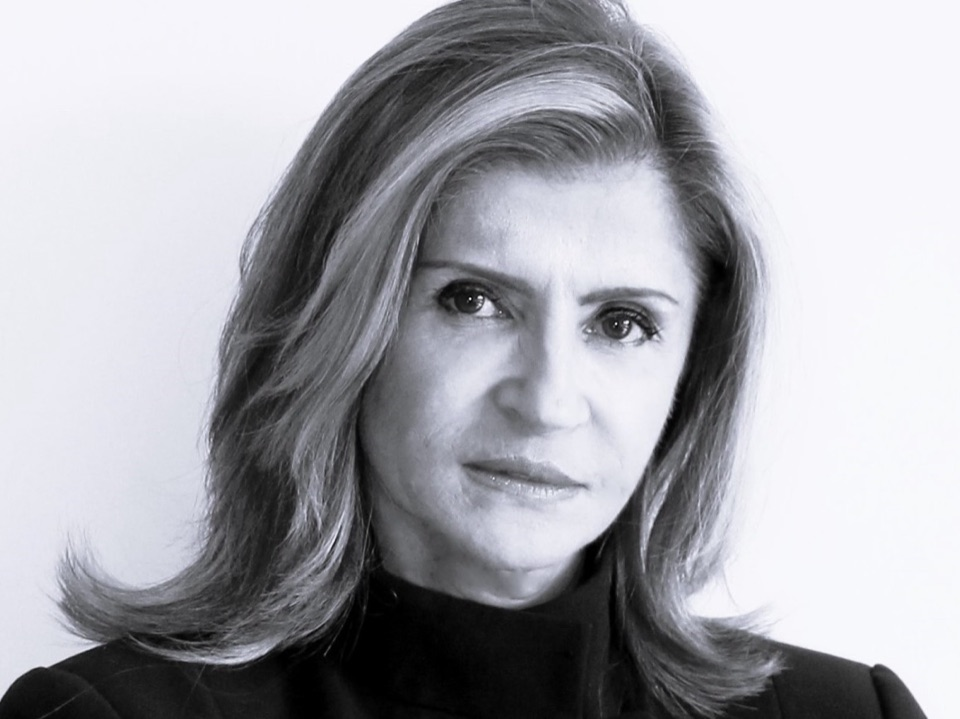
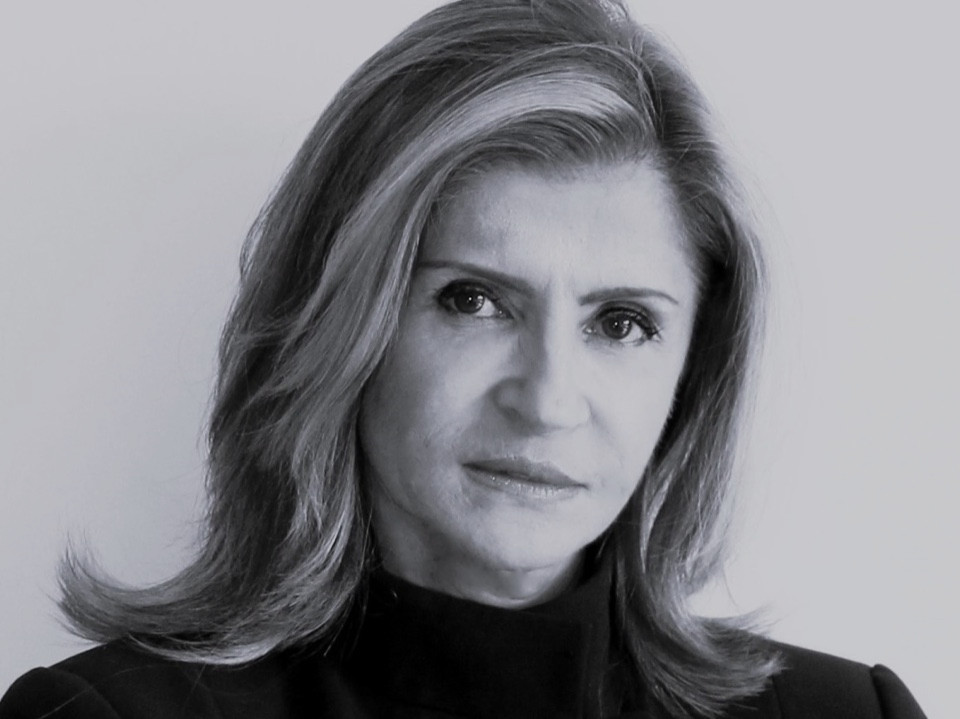
Panelistas: Ana María Echeverri en Surgimiento de las guerrillas, Martha Soto en Narcotráfico, Guillermo González Uribe con bio corregida y foto de Marisol Gómez con curva de tonos

diff --git a/src/data/speakers.ts b/src/data/speakers.ts
@@ -20,6 +20,7 @@ import photoGuillermoGonzalez from '../assets/speakers/guillermo-gonzalez.jpg';
 import photoYolandaRuiz from '../assets/speakers/yolanda-ruiz.jpg';
 import photoMariaElviraSamper from '../assets/speakers/maria-elvira-samper.jpg';
 import photoLeonValencia from '../assets/speakers/leon-valencia.jpg';
+import photoAnaMariaEcheverri from '../assets/speakers/ana-maria-echeverri.jpg';
 
 export type SpeakerLinkKey = 'x' | 'instagram' | 'linkedin' | 'facebook' | 'web' | 'wikipedia';
 
@@ -177,14 +178,30 @@ export const speakers: Speaker[] = [
   },
   {
     slug: 'guillermo-gonzalez',
-    name: 'Guillermo González',
+    /* Nombre con los dos apellidos y bio corregida por los organizadores el 2026-09-15 */
+    name: 'Guillermo González Uribe',
     credential: 'Fundador de Número · columnista de El Espectador',
-    bio: 'Periodista, editor y escritor. Columnista de El Espectador y director de El Ala de Arriba. Fundó y dirigió durante 18 años la revista Número (1993-2011). Antes dirigió Gaceta de Colcultura y el Magazín Dominical de El Espectador, donde empezó como reportero en 1977. Premio Planeta de Periodismo 2002 por “Los niños de la guerra” y Premio Media de LASA. Autor de “A pesar de la noche” y “Foto Sady, recuerdos de la realidad”.',
+    bio: 'Cubrió derechos humanos y cultura en El Espectador en los años ochenta y fue editor de su Magazín Dominical. Dirigió las revistas Gaceta y Número. Autor de “A pesar de la noche”, “Los niños de la guerra”, “Los niños de la guerra quince años después” y, con Margarita Carrillo, de “Foto Sady, recuerdos de la realidad”. Premio Planeta de Periodismo y Premio Media de LASA (Latin American Studies Association). Coautor, con Margarita Carrillo, del documental “Sady González, una luz en la memoria”, premio estímulo del Fondo de Desarrollo Cinematográfico. Escribe columna en El Espectador y colabora con diversos medios.',
     photo: photoGuillermoGonzalez,
     links: {
       x: 'https://x.com/guillogonzale12',
       linkedin: 'https://www.linkedin.com/in/guillermo-gonz%C3%A1lez-uribe-b2775034/',
       web: 'https://elaladearriba.wordpress.com/',
+    },
+    confirmed: true,
+  },
+  {
+    /* Añadida el 2026-09-15 por los organizadores para "Surgimiento de las
+       guerrillas". Investigación en docs/investigacion-ana-maria-echeverri.md.
+       Última del carrusel: sin columna, radio ni televisión hoy. */
+    slug: 'ana-maria-echeverri',
+    name: 'Ana María Echeverri',
+    credential: 'Periodista y documentalista · autora de “Yo soy yo”',
+    bio: 'Periodista, cronista y documentalista. Autora de “Yo soy yo” (2024), la historia de Martín Castillo, un hombre trans, contada tras siete años de conversaciones en Villa de Leyva. Empezó como reportera gráfica de la revista Guion y fue cronista de El Tiempo, Cromos y el Magazín Dominical de El Espectador. Dirigió documentales y programas de opinión para Audiovisuales, Telepacífico y Caracol Televisión. Premios Ondas, India Catalina y Simón Bolívar.',
+    photo: photoAnaMariaEcheverri,
+    photoTreatment: 'plain',
+    links: {
+      web: 'https://www.planetadelibros.com/autor/ana-maria-echeverri/000061446',
     },
     confirmed: true,
   },

diff --git a/src/data/agenda.ts b/src/data/agenda.ts
@@ -91,7 +91,8 @@ export const agenda: AgendaSlot[] = [
     type: 'conversatorio',
     title: 'Surgimiento de las guerrillas',
     venueId: 'duruelo',
-    speakerSlugs: ['leon-valencia'],
+    /* Ana María Echeverri entró el 2026-09-15 (organizadores) */
+    speakerSlugs: ['leon-valencia', 'ana-maria-echeverri'],
   },
   {
     day: '2026-11-07',
@@ -107,7 +108,8 @@ export const agenda: AgendaSlot[] = [
     type: 'conversatorio',
     title: 'Narcotráfico y paramilitarismo',
     venueId: 'duruelo',
-    speakerSlugs: ['luz-maria-sierra'],
+    /* Martha Soto entró a esta franja el 2026-09-15 (organizadores) */
+    speakerSlugs: ['luz-maria-sierra', 'martha-soto'],
   },
   {
     day: '2026-11-07',

diff --git a/docs/investigacion-ana-maria-echeverri.md b/docs/investigacion-ana-maria-echeverri.md
@@ -1,0 +1,92 @@
+# Ana María Echeverri · informe de investigación (15 sep 2026)
+
+Encargo: nueva panelista de "Surgimiento de las guerrillas" (sábado 7 de noviembre, 9:00 a 10:30 a.m.), junto a León Valencia. Los organizadores la escribieron "Ana Maria Echeverri".
+
+## 1. Nombre y grafía
+- Nombre completo: **Ana María Echeverri Salazar** (página de autora de Editorial Planeta, 2024; en la biografía de Grijalbo firma "Ana María Echeverri S.").
+- Grafía recomendada para el sitio: **Ana María Echeverri**, con tilde en "María" y con i final. Es la forma de su editorial actual (Planeta), de Villa de Letras 2026, de El Espectador (Guillermo González Uribe y Arturo Guerrero), El Diario y Vanguardia.
+- Variante "Echeverry": la usan la ficha de Google Books y algunas librerías para su libro de 2016 en Grijalbo, un pie de foto de El Tiempo (31 mar 2025) y el blog de María Victoria Puerta. Es la misma persona; no usar en el sitio.
+- **Identidad**: hay varias Ana María Echeverri en Colombia (una directiva tecnológica de IBM, una directora de Amor por Medellín, una religiosa de 90 años en Manizales, una funcionaria pública). La que encaja es la periodista y documentalista, por cuatro razones verificadas: (a) trayectoria de más de cuatro décadas en prensa y televisión, coherente con un encuentro de "periodistas veteranos"; (b) vive en Villa de Leyva (Grijalbo 2016: doce años residiendo allí; El Tiempo 2025: "mi casa de Villa de Leyva"); (c) fue invitada de Villa de Letras 2026, encuentro cultural de Villa de Leyva donde conversó con Yolanda Ruiz y en cuya lista de invitados figura también Darío Restrepo, codirector de Testigos de la Memoria; (d) Guillermo González Uribe, panelista del encuentro, reseñó su libro en El Espectador (3 dic 2024).
+- No tiene artículo de Wikipedia (búsquedas directas sin resultado). Su hoja en Planeta hace las veces de biografía oficial.
+
+## 2. Rol actual (2024-2026) · confirmado
+- **Periodista, cronista y documentalista; escritora.** Así la presentan Planeta (2024), Villa de Letras (2026), El Espectador (2024), El Tiempo (2025) y Cambio (2024-2025). No tiene cargo en un medio ni columna fija hoy. Guillermo González Uribe la describe como "periodista curtida, de bajo perfil", con "más de cuatro décadas de profesión".
+- Libro más reciente: *Yo soy yo. La asombrosa transformación de Yasmín en Martín* (Editorial Planeta Colombia, 23 sep 2024; ISBN 978-628-7734-40-1; 192 páginas). Historia de Martín Castillo, hombre trans nacido en Bogotá y criado en Muzo (Boyacá), construida en siete años de conversaciones. Según Vanguardia (14 mar 2025), agotó la primera edición en tres meses y se reimprimieron 600 ejemplares.
+- Confirmaciones recientes:
+  - 23 feb 2026, El Espectador: Villa de Letras 2026 cierra el domingo 1 de marzo con "una conversación entre Yolanda Ruiz y la escritora Ana María Echeverri". La agenda del festival la ubica de 10:30 a 12:00 en el Claustro de San Francisco, Villa de Leyva.
+  - villadeletras.com/invitados (edición 2026): "Periodista, cronista y documentalista. Ha trabajado en revistas y periódicos como El Tiempo, Cromos y El Espectador. Autora del libro YO SOY YO. Su trabajo ha sido reconocido con importantes premios nacionales e internacionales como el Premio Ondas, el Simón Bolívar y la India Catalina."
+  - 31 mar 2025, El Tiempo (Laura Valeria López Guzmán): entrevista por el libro; cita textual "Todo esto se dio en mi casa de Villa de Leyva".
+  - 21 abr 2025, blog de María Victoria Puerta (El Tiempo): la encuentra en Villa de Letras 2025 y la llama "la histórica periodista".
+- Residencia: Villa de Leyva (Grijalbo 2016 decía "reside hace doce años en Villa de Leyva"; El Tiempo 2025 lo confirma). No publicar la dirección ni detalles.
+
+## 3. Trayectoria clave
+Fuente principal: biografía de autora en Planeta (2024), reproducida por El Diario (20 oct 2024) y librerías. Lo que no aparece en fuente independiente se marca.
+- **Origen y formación**: "bogotana de nacimiento y manizaleña de corazón". Estudió Comunicación Social en Medellín. Grijalbo (2016) añade que creció en zona cafetera.
+- **Inicios**: reportera gráfica de la revista Guion; luego cronista de El Tiempo, de la revista Cromos y del Magazín Dominical de El Espectador. Un artículo de la revista Diners sobre las primeras fotógrafas de Colombia la incluye entre ellas y dice que se formó en fotografía en Londres (solo visto en fragmento de buscador; la URL devuelve 404: **no confirmado**).
+- **Televisión**: documentales y programas de opinión para Audiovisuales, Telepacífico, Caracol Televisión y el Premio Nacional de Paz (Planeta). No encontré títulos de esos documentales en fuentes públicas.
+- **1987**: Premio Nacional de Periodismo Simón Bolívar, categoría Trabajo cultural en televisión, por "Cien años de arte colombiano / Cenicienta va a la ópera / Cali, pura salsa I y II", con Diego Carrizosa y Susana Silva (Audiovisuales). **Confirmado en premiosimonbolivar.com/1987.**
+- **Premios según su biografía editorial**: Premio Ondas (España), Mejor Documental en la Televisión Belga, seis premios Simón Bolívar, Premio India Catalina, Medalla al Mérito Murillo Toro, Chigüiro de Oro y Premio de Periodismo Cultural Eddy Torres. De los seis Simón Bolívar solo pude confirmar el de 1987 (revisé las páginas oficiales de 1980 a 2006; los años anteriores y posteriores tienen categorías de televisión poco detalladas). Los demás premios no aparecen en listas públicas: se citan **sobre la palabra de la editorial**.
+- **2016**: *Pioneros de la medicina alternativa* (Grijalbo / Penguin Random House Colombia; ISBN 978-958-9007-20-4 impreso, 978-958-9007-21-1 digital). Conversaciones con siete especialistas en terapias alternativas.
+- **2024**: *Yo soy yo* (Planeta). Lanzamiento en Ficciones-Bar de Libros, Bogotá, con Brigitte Baptiste como presentadora (El Diario).
+- **2025-2026**: Villa de Letras (Villa de Leyva), ediciones 2025 (informal) y 2026 (invitada, conversación con Yolanda Ruiz).
+
+### Datos del encargo que NO pude confirmar
+- **Vínculo con el tema "Surgimiento de las guerrillas"**: ninguna fuente pública la asocia al cubrimiento del conflicto armado, las guerrillas, la memoria histórica o a León Valencia. Su obra publicada trata de arte y cultura (1987), medicina alternativa (2016) e identidad de género (2024); los documentales para el Premio Nacional de Paz son lo más cercano al tema, sin títulos localizables. **Los organizadores deben confirmar que es esta persona y en qué calidad participa** (por ejemplo, como entrevistadora o moderadora de León Valencia, más que como testigo del surgimiento de las guerrillas).
+- No es historiadora ni académica según ninguna fuente.
+- No encontré año de nacimiento ni edad: no publicar.
+
+## 4. Bio propuesta (70 palabras)
+Periodista, cronista y documentalista. Autora de “Yo soy yo” (2024), la historia de Martín Castillo, hombre trans, contada tras siete años de conversaciones en Villa de Leyva, donde vive. Empezó como reportera gráfica de la revista Guion y fue cronista de El Tiempo, Cromos y el Magazín Dominical de El Espectador. Dirigió documentales y programas de opinión para Audiovisuales, Telepacífico y Caracol Televisión. Premios Ondas, India Catalina y Simón Bolívar.
+
+Notas: los tres premios de la última frase son los que ella misma destaca en Villa de Letras; el Simón Bolívar está confirmado (1987). Si los organizadores prefieren no citar premios sin lista pública, sustituir la última frase por "Premio Simón Bolívar 1987 en televisión cultural." (66 palabras).
+
+## 5. Credencial corta
+"Documentalista · autora de “Yo soy yo”" (6 palabras).
+Alternativa: "Periodista y documentalista · Premio Ondas" (5 palabras; el Ondas solo consta en su biografía editorial).
+
+## 6. Redes y enlaces
+- Página de autora en Planeta: https://www.planetadelibros.com/autor/ana-maria-echeverri/000061446 · verificada (bio oficial, foto de autora, libros). Es el enlace `web` recomendado para la tarjeta.
+- Ficha del libro: https://www.planetadelibros.com/libro-yo-soy-yo/409054 · verificada.
+- X, Instagram, Facebook, LinkedIn, sitio propio: **no encontrados** con verificación. Los perfiles de LinkedIn "Ana María Echeverri" que aparecen en buscadores son de otras personas (Medea Interactiva, Amor por Medellín, IBM); la cuenta de X @anachevere es de una periodista española (Ana Echeverría). No enlazar ninguno.
+- Wikipedia: no tiene artículo.
+- Villa de Letras (tarjeta de invitada 2026): https://villadeletras.com/invitados · verificada como página del festival, no de ella; sirve como fuente, no como enlace de la tarjeta.
+
+## 7. Fotos
+Wikimedia Commons: sin resultados. No hay foto con licencia libre; todas son de prensa o editoriales y hay que acreditar o pedir permiso (lo más simple: pedirle a ella el original de Margarita Casas).
+
+**curl fue denegado por permisos en esta sesión**, así que no hay copias locales en `scratchpad/research/photos/`. Las dimensiones se midieron cargando cada URL en el navegador (`naturalWidth × naturalHeight`); las URL directas van abajo.
+
+1. **Recomendada para la tarjeta 4:3**: retrato en blanco y negro, cabeza y hombros centrados, sonriente, gafas, suéter claro de cuello alto, fondo de muro de ladrillo. **1080 × 1080 px**. Origen: tarjeta de invitada en Villa de Letras 2026, https://img1.wsimg.com/isteam/ip/fae1fbd5-ffc3-43c7-a223-16f422137f46/ana-maria-echeverri.jpg. Es la misma sesión que la foto oficial de Planeta, cuyo crédito es **© Margarita Casas** (Planeta, ago 2024); en Villa de Letras aparece sin crédito. Recorte 4:3 de 1080 × 810 dejando la cabeza centrada: quita un poco de muro arriba y de suéter abajo; queda con el mismo encuadre que Daniel Samper Pizano y Darío Restrepo. Derechos: Planeta / Margarita Casas; pedir autorización o el original en alta.
+2. Misma foto en versión apaisada, más muro a los lados: **1200 × 535 px**, El Tiempo, 31 mar 2025, crédito "Cortesía Editorial Planeta": https://imagenes2.eltiempo.com/files/image_1200_535/files/fp/uploads/2025/01/15/6787f58e4dda1.r_d.821-444-7500.jpeg. La cabeza toca el borde superior; no sirve para 4:3 pero confirma el origen editorial de la foto 1.
+3. Planeta, foto de autora oficial (© Margarita Casas): solo se sirve en miniatura de **300 × 300 px**: https://proassetspdlcom.cdnstatics2.com/usuaris/autores/thumbs/a0c153e5-b37d-4935-9d3a-ddcb6f569955/d_300_300_crop/000085335_1_FotoAnaMariaporMargaritaCasas_202408202151.webp. Demasiado pequeña; útil solo para acreditar.
+4. Foto en color con el libro en la mano, en un patio de Villa de Leyva, cuerpo entero hasta la cadera, rostro pequeño en el encuadre: **1548 × 2560 px** (versión "scaled"; el original IMG_1650.jpg mide 1725 × 2853). Crédito: Victoria Puerta, blog Los mundos de Vandalia (El Tiempo), 21 abr 2025: https://blogs.eltiempo.com/los-mundos-de-vandalia/wp-content/uploads/sites/634/2025/04/IMG_1650-scaled.jpg. Un recorte 4:3 de cabeza y hombros quedaría por debajo de 900 px de ancho y con fondo cargado. Segunda opción.
+5. Dos fotos del lanzamiento del libro (sentada junto a un pendón de Planeta; con Brigitte Baptiste), **600 × 700 px** cada una, El Tiempo, crédito "Cortesía": https://imagenes2.eltiempo.com/files/image_600_700/files/fp/uploads/2025/04/01/67ec09ec8b2bd.r_d.606-902-5000.jpeg y https://imagenes2.eltiempo.com/files/image_600_700/files/fp/uploads/2025/04/01/67ec0a223acee.r_d.600-895-5000.jpeg. Rostro pequeño y de perfil; no sirven.
+
+## 8. Fuentes
+- Planeta, página de autora: https://www.planetadelibros.com/autor/ana-maria-echeverri/000061446
+- Planeta, ficha de *Yo soy yo* (23 sep 2024): https://www.planetadelibros.com/libro-yo-soy-yo/409054
+- Planeta Colombia, ficha: https://www.planetadelibros.com.co/libro-yo-soy-yo/404913
+- El Espectador, Guillermo González Uribe, 3 dic 2024: https://www.elespectador.com/opinion/columnistas/guillermo-gonzalez-uribe/de-ana-maria-echeverri-un-libro-apasionante-yo-soy-yo-ni-hombre-ni-mujer/
+- El Espectador, Arturo Guerrero: https://www.elespectador.com/opinion/columnistas/arturo-guerrero/no-tener-uno-sino-dos-sexos-entre-violencias/
+- El Tiempo, 31 mar 2025: https://www.eltiempo.com/cultura/musica-y-libros/disfrute-ver-como-suena-con-un-hogar-asi-fue-la-transicion-de-yasmin-a-martin-3417775
+- Vanguardia, 14 mar 2025: https://www.vanguardia.com/entretenimiento/cultura/2025/03/14/yo-soy-yo-la-inspiradora-historia-de-martin-castillo-y-su-camino-hacia-la-libertad/
+- El Diario (Pereira), 20 oct 2024: https://www.eldiario.com.co/seccion-d/las-artes/yo-soy-yo/
+- Cambio Colombia (403 al abrir; fragmento coherente): https://cambiocolombia.com/cultura/yo-soy-yo-desgarrador-drama-trans-pluma-ana-maria-echeverri
+- Premio Simón Bolívar, palmarés 1987: https://premiosimonbolivar.com/1987 (revisados también 1980-1986 y 1988-2006: sin otras entradas suyas)
+- Wikipedia, Anexo de ganadores del Simón Bolívar (sin mención): https://es.wikipedia.org/wiki/Anexo:Ganadores_del_Premio_Nacional_de_Periodismo_Sim%C3%B3n_Bol%C3%ADvar
+- Google Books, *Pioneros de la medicina alternativa* (Grijalbo 2016, "Ana Maria Echeverry", bio con Villa de Leyva): https://books.google.com.co/books?id=cqrgDAAAQBAJ
+- Buscalibre, *Pioneros de la medicina alternativa* (como "Echeverri"): https://www.buscalibre.com.co/libro-pioneros-de-la-medicina-alternativa/9789589007204/p/47504386
+- Penguin Libros, ebook: https://www.penguinlibros.com/co/nutricion-belleza-y-fitness/83964-ebook-pioneros-de-la-medicina-alternativa-9789589007211
+- Villa de Letras, invitados 2026: https://villadeletras.com/invitados
+- Villa de Letras, agenda 2026: https://villadeletras.com/agenda
+- El Espectador, 23 feb 2026, Villa de Letras 2026: https://www.elespectador.com/el-magazin-cultural/villa-de-letras-2026-reunira-a-mario-mendoza-pilar-quintana-y-otros-escritores-colombianos-en-villa-de-leyva/
+- Blog Los mundos de Vandalia (El Tiempo), 21 abr 2025: https://blogs.eltiempo.com/los-mundos-de-vandalia/2025/04/21/villla-de-leyva-al-calor-de-las-letras/
+- Revista Diners, primeras fotógrafas de Colombia (404; solo fragmento): https://revistadiners.com.co/cultura/archivo/42340_quienes-fueron-las-primeras-mujeres-colombia-se-dedicaron-la-fotografia/
+- Libros Medellín, ficha: https://librosmedellin.com/yo-soy-yo-ana-maria-echeverri/
+
+## 9. Posición sugerida en el carrusel
+Criterio del carrusel: reconocimiento entre el público general (radio, televisión y columnas de gran audiencia hoy). Ana María Echeverri no tiene columna, programa ni presencia en radio o televisión actual; su propia colega la describe como "de bajo perfil", y su notoriedad reciente viene de un libro de nicho y de un festival local. Sus premios de televisión son de los años ochenta y noventa.
+
+Propuesta: **al final del carrusel, después de Guillermo González** (orden: … Marisol Gómez, Martha Soto, Guillermo González, Ana María Echeverri). Guillermo González conserva una columna en El Espectador y una revista con nombre propio; ella no tiene hoy ninguna tribuna de audiencia comparable. Si los organizadores quieren reconocerle el Ondas y los Simón Bolívar, la alternativa es entre Martha Soto y Guillermo González, pero el criterio de audiencia actual la deja última.
+
+En la línea de nombres por franja (docs/panelistas.md, "Sábado 7, mañana"): León Valencia · Marisol Gómez · Ana María Echeverri.

diff --git a/docs/panelistas.md b/docs/panelistas.md
@@ -20,13 +20,14 @@ Un solo mensaje sirve para todos:
 | Daniel Samper Pizano (fundador de Cambio 16 Colombia, no director; corrección de los organizadores 2026-09-07) | Periodista y escritor · Los Danieles | X @DanielSamperPi · Los Danieles · Wikipedia | Foto de autor de Cambio (b/n), derechos reservados. Alternativa con licencia libre: Wikimedia Commons, NotimexTV 2018, CC BY 3.0, pero de baja calidad | La cuenta de X fue señalada como parodia en 2020; en 2026 Los Danieles la etiqueta como suya. Confirmar con él. |
 | Darío Restrepo | Periodista · codirector del encuentro | Wikipedia | Foto nueva del 2026-09-14 (original horizontal de 3840 x 2160 px, en color, en un patio con geranios); recorte propio a 4:3 y 960 px, con el encuadre de la de Daniel Samper Pizano (cabeza y hombros). Reemplaza la de prensa de El Tiempo y la vertical que envió él el 2026-09-07. Anotar el crédito y la autorización de uso | **Identidad**: la bio corresponde a Darío Restrepo Vélez (exdirector de Citytv, n. 1949). Ninguna fuente pública lo vincula con el encuentro. Confirmar con Fernando Cordovez antes de publicar. No tiene redes públicas. |
 | León Valencia | Director · Fundación Paz y Reconciliación | X @LeonVaLenciaA · autor en pares.com.co · Wikipedia | Presidencia de Colombia, 13 de mayo de 2025, dominio público (Flickr de Presidencia vía Wikimedia Commons, File:León_Valencia.jpg); recorte propio a 4:3 del original horizontal | Añadido el 2026-09-09 por los organizadores para "Surgimiento de las guerrillas". Año de nacimiento sin consenso (1955 en Wikipedia y Planeta; 1956 en La Silla Vacía): no se publica. Salió de Semana en 2017, por eso la bio no lo llama columnista de Semana. Instagram, LinkedIn y Facebook no verificados; no se enlazaron. Informe de fuentes en docs/investigacion-leon-valencia.md. |
-| Marisol Gómez | Columnista · Cambio | X @Marisol_GomezG · LinkedIn · Facebook · columna en Cambio | Festival Gabo 2024, sin crédito | Salió de El Tiempo en 2019 y fue concejal de Bogotá 2020-2023. Su LinkedIn está desactualizado. |
+| Marisol Gómez | Columnista · Cambio | X @Marisol_GomezG · LinkedIn · Facebook · columna en Cambio | Festival Gabo 2024, sin crédito. El original viene con las luces quemadas (fondo y rostro casi blancos) y en el sitio se veía "fantasma"; el 2026-09-15 se le aplicó una curva de tonos por píxel (blancos a 205, medios más densos, negros intactos; media de 167 a 134) y conserva el tratamiento `soft`. Sigue pendiente pedirle una foto oficial | Salió de El Tiempo en 2019 y fue concejal de Bogotá 2020-2023. Su LinkedIn está desactualizado. |
 | Luz María Sierra | Directora · El Colombiano | X @LuzMaSierra · LinkedIn (probable) | Forbes Colombia 2026, crédito El Colombiano | Sigue siendo directora (no "exdirectora"). Instagram @luzmariasierra no parece suyo; no se enlazó. |
-| Martha Soto | Editora de la Unidad Investigativa · El Tiempo | Página de autora en El Tiempo | Retrato de estudio, El Tiempo (vía gerente.com), 683 px, derechos reservados; pedirle foto oficial en alta | Añadida el 2026-09-07 por los organizadores; sin franja en la agenda todavía. Es Martha Elvira Soto Franco. No tiene redes personales verificables; su perfil remite a la X institucional @UinvestigativaET. Informe en docs/investigacion-martha-soto.md. |
+| Martha Soto | Editora de la Unidad Investigativa · El Tiempo | Página de autora en El Tiempo | Retrato de estudio, El Tiempo (vía gerente.com), 683 px, derechos reservados; pedirle foto oficial en alta | Añadida el 2026-09-07 por los organizadores; desde el 2026-09-15 en "Narcotráfico y paramilitarismo" con Luz María Sierra. Es Martha Elvira Soto Franco. No tiene redes personales verificables; su perfil remite a la X institucional @UinvestigativaET. Informe en docs/investigacion-martha-soto.md. |
 | Cecilia Orozco | Columnista · El Espectador | X @CeciliaOrozcoT · columna en El Espectador · Wikipedia | RTVC / Señal Colombia, octubre 2025 | Dejó la dirección de Noticias Uno en marzo de 2024; sigue en la junta. Conduce "Parte y Contraparte" en Señal Colombia. |
 | Marta Ruiz | Periodista · excomisionada de la Verdad | X @martaruiz66 (probable) · autora en Cambio | Shift The Power Summit 2023, suministrada por ella | **Grafía**: firma "Marta", sin h. El documento de agenda decía "Martha". |
-| Guillermo González | Fundador de Número · columnista de El Espectador | X @guillogonzale12 · LinkedIn (probable) · El Ala de Arriba | Foto oficial enviada por él en el formulario (29/8/2026), con autorización de uso de imagen y de datos | Formulario recibido: confirma credencial, trayectoria y bio. Redes que declara: X y Facebook (solo X está enlazada; pedirle la URL de Facebook). |
+| Guillermo González Uribe (con los dos apellidos, indicación de los organizadores del 2026-09-15; bio también corregida por ellos ese día) | Fundador de Número · columnista de El Espectador | X @guillogonzale12 · LinkedIn (probable) · El Ala de Arriba | Foto oficial enviada por él en el formulario (29/8/2026), con autorización de uso de imagen y de datos | Formulario recibido: confirma credencial, trayectoria y bio. Redes que declara: X y Facebook (solo X está enlazada; pedirle la URL de Facebook). |
 | Yolanda Ruiz | Periodista · Simón Bolívar a la Vida y Obra 2025 | X @YolandaRuizCe · Instagram @yolandaruizperiodista · Facebook (probable) · Wikipedia | Fundación Gabo, Lina Botero, Festival Gabo 2025 | Su sitio yolandaruiz.com está caído; no se enlazó. |
+| Ana María Echeverri | Periodista y documentalista · autora de “Yo soy yo” | Página de autora en Planeta | Tarjeta de invitada de Villa de Letras 2026 (1080 × 1080, b/n, fondo de ladrillo; misma sesión de la foto oficial de Planeta, crédito © Margarita Casas); recorte propio a 4:3 y 960 px, tratamiento `plain` por venir ya en b/n. Pedirle a ella o a Planeta el original | Añadida el 2026-09-15 por los organizadores para "Surgimiento de las guerrillas" con León Valencia. Nombre completo Ana María Echeverri Salazar; algunas fuentes escriben "Echeverry". **Identidad**: ninguna fuente pública la vincula con guerrillas, conflicto ni con León Valencia; su obra es de cultura, medicina alternativa e identidad de género. Confirmar que es ella y en qué calidad va. De los premios, solo el Simón Bolívar 1987 está confirmado en la fuente oficial; Ondas e India Catalina constan en su bio editorial de Planeta. Sin redes verificadas ni Wikipedia. Informe en docs/investigacion-ana-maria-echeverri.md. |
 | María Elvira Samper | Periodista · exdirectora de Semana y Cambio | X @monasamper · Wikipedia | Contexto Media 2024 (mismo retrato que usan Planeta y Ulibro) | No hay fuente que la vincule a CM& (la ficha anterior lo decía). Dejó RCN Radio en 2022. Sin columna regular hoy. |
 
 ## Fotos
@@ -42,6 +43,24 @@ Recortadas a 4:3 y 960 px de ancho en `src/assets/speakers/`. Se muestran en bla
 - Cóctel de bienvenida sin sede (no está confirmada).
 - Se eliminaron las dos tarjetas "Por confirmar" del carrusel.
 
+
+## Panelistas por franja, en orden de reconocimiento público
+
+Mismo criterio que el carrusel del sitio (`src/data/speakers.ts`, 2026-09-09):
+presencia en radio, televisión y columnas de gran audiencia, de mayor a menor.
+No es jerarquía del evento. Sirve para las descripciones de la tienda de Pretix,
+para la línea de nombres que el sitio pinta bajo cada franja y para cualquier
+pieza de difusión. Corte del 2026-09-15; se actualiza con cada cambio de agenda.
+
+- Viernes 6, tarde: Daniel Samper Pizano · Darío Restrepo
+- Sábado 7, mañana: León Valencia · Marisol Gómez · Ana María Echeverri
+- Sábado 7, tarde: Cecilia Orozco · Luz María Sierra · Martha Soto
+- Domingo 8, mañana: Yolanda Ruiz · María Elvira Samper · Marta Ruiz · Guillermo González Uribe
+
+Diferencias con la tienda (2026-09-15), pendientes de corregir en Pretix: la
+descripción de "Sábado Mañana" no nombra a León Valencia en "Surgimiento de las
+guerrillas" (el sitio lo tiene desde el 2026-09-09), y la de "Sábado Tarde" no
+nombra a Martha Soto en "Narcotráfico y paramilitarismo" (entró el 2026-09-15).
 
 ## Retirados
 

diff --git a/docs/pretix-tienda-textos.md b/docs/pretix-tienda-textos.md
@@ -151,61 +151,63 @@ No te pierdes de nada y te aseguras el mejor precio.
 ### Franja · Viernes 6, tarde · 90.000 COP
 
 ```markdown
-*Viernes 6 de noviembre · 3:00 a 6:00 p.m.*
-
 3:00 p.m. · Bienvenida y presentación
 **Darío Restrepo**
 
 3:30 a 6:00 p.m. · Bogotazo, dictadura y Frente Nacional (1958-1974)
 **Daniel Samper Pizano y Darío Restrepo**
+
+*6 de noviembre*
 ```
 
 ### Franja · Sábado 7, mañana · 90.000 COP
 
 ```markdown
-*Sábado 7 de noviembre · 9:00 a.m. a 12:30 p.m.*
-
 9:00 a 10:30 a.m. · Surgimiento de las guerrillas
+**León Valencia y Ana María Echeverri**
 
 11:00 a.m. a 12:30 p.m. · Negociaciones de paz, el Caguán y La Habana
 **Marisol Gómez**
+
+*7 de noviembre*
 ```
 
 ### Franja · Sábado 7, tarde · 90.000 COP
 
 ```markdown
-*Sábado 7 de noviembre · 3:00 a 6:30 p.m.*
-
 3:00 a 4:30 p.m. · Narcotráfico y paramilitarismo
-**Luz María Sierra**
+**Luz María Sierra y Martha Soto**
 
 5:00 a 6:30 p.m. · Reelecciones
 **Cecilia Orozco**
+
+*7 de noviembre*
 ```
 
 ### Franja · Domingo 8, mañana · 90.000 COP
 
 ```markdown
-*Domingo 8 de noviembre · 9:00 a.m. a 1:00 p.m.*
-
 9:00 a 10:30 a.m. · Magnicidios y víctimas de la violencia
-**Marta Ruiz y Guillermo González**
+**Marta Ruiz y Guillermo González Uribe**
 
 11:00 a.m. a 12:30 p.m. · Mujeres periodistas y conflicto
 **Yolanda Ruiz y María Elvira Samper**
 
 12:30 a 1:00 p.m. · Cierre
+
+*8 de noviembre*
 ```
 
-> Estructura de cada franja: fecha y rango horario en cursiva, una charla por
-> bloque con su hora y título en texto normal, y los panelistas en negrita
-> debajo (es lo que vende). Sin sede: ya va en la portada y en el mensaje de
-> éxito. Solo nombres confirmados en `src/data/agenda.ts`: "Surgimiento de las
-> guerrillas" no tiene panelista confirmado y queda sin nombre; Marisol Gómez
-> solo está confirmada para "Negociaciones de paz". El cóctel del viernes no se
-> anuncia. Como los nombres viven aquí y en el sitio, un cambio de panelista se
-> corrige en los dos. Pretix convierte cada salto de línea simple en `<br>`
-> (extensión nl2br), así que no hacen falta dos espacios al final de línea.
+> Estructura de cada franja (formato del 2026-09-15): una charla por bloque
+> con su hora y título en texto normal, los panelistas en negrita debajo (es
+> lo que vende) y, al final, la fecha en cursiva. Sin sede: ya va en la
+> portada y en el mensaje de éxito. Solo nombres confirmados en
+> `src/data/agenda.ts`. El cóctel del viernes no se anuncia. Como los nombres
+> viven aquí y en el sitio, un cambio de panelista se corrige en los dos; la
+> línea de nombres que el sitio pinta bajo cada franja aún no disponible sale
+> de los datos del sitio (agenda y orden del carrusel), no de estas negritas.
+> Pretix convierte cada salto de línea simple en `<br>` (extensión nl2br), así
+> que no hacen falta dos espacios al final de línea.
 
 Nombres cortos para el checkout, el correo y el PDF (campo *Name*):
 `Pase completo`, `Viernes tarde`, `Sábado mañana`, `Sábado tarde`, `Domingo mañana`.
